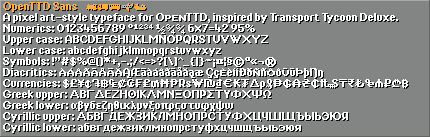
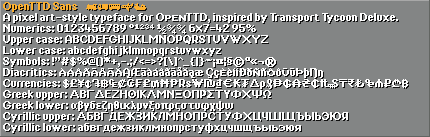
Change: Tabular numerals as default for OpenTTD Sans

Changed region(s): [[0.1209, 0.1752, 0.6047, 0.2628]]

diff --git a/openttd-sans/readme.md b/openttd-sans/readme.md
@@ -33,7 +33,7 @@ When used as a vector font, it comes with the usual improvements:
 * Character pair kerning
 * Select ligatures/contextual alternates
 
-Provides normal lining numerals and tabular numerals as an alternate.
+Provides tabular numerals, and proportional numerals (matching the TTD style) as an alternate.
 
 ## Technical details
 SVG glyphs are drawn in Inkscape, for manual import into FontForge. Source SVGs, occasionally containing source paths pre-union, are included for convenience.
